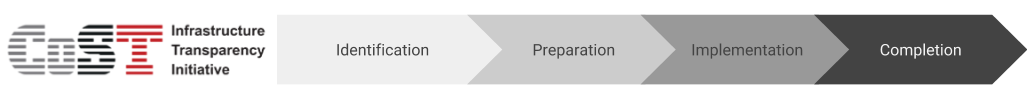
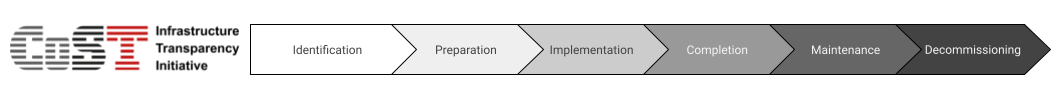
projectStatus.csv: Add maintenance and decommissioning stages

diff --git a/docs/projects/index.md b/docs/projects/index.md
@@ -31,14 +31,46 @@ The CoST IDS and OC4IDS cover project-level data and summary contracting process
 
 ### What is project-level data?
 
+% Image source: https://docs.google.com/drawings/d/1aV2iBjxeVFR8JRZRPY80mVS3C57uolk1sEDrn8vKuhA
 ![Project-level data covers a number of stages](../_static/images/diagram-project-phases.png)
 
 Project-level data relates to the project as a whole and covers the following stages:
 
-* **Identification** - the decision to develop a project within the budget and programme of a project owner.
-* **Preparation** - the feasibility study, environmental and social impact assessment, general scoping of the project, establishing the packaging and procurement strategy, preliminary statutory requirements on environmental and land impacts, and the resulting budget authorization.
-* **Implementation** - covers the procurement and implementation of the planning, design and works according to the procurement strategy.
-* **Completion** - covers the handover of the assets and close-out activities with details of the final scope, cost, and delivery time.
+**Identification**
+: 
+  ```{eval-rst}
+  .. code-description:: ../../build/current_lang/codelists/projectStatus.csv identification
+  ```
+
+**Preparation**
+: 
+  ```{eval-rst}
+  .. code-description:: ../../build/current_lang/codelists/projectStatus.csv preparation
+  ```
+
+**Implementation**
+: 
+  ```{eval-rst}
+  .. code-description:: ../../build/current_lang/codelists/projectStatus.csv implementation
+  ```
+
+**Completion**
+: 
+  ```{eval-rst}
+  .. code-description:: ../../build/current_lang/codelists/projectStatus.csv completion
+  ```
+
+**Maintenance**
+: 
+  ```{eval-rst}
+  .. code-description:: ../../build/current_lang/codelists/projectStatus.csv maintenance
+  ```
+
+**Decommissioning**
+: 
+  ```{eval-rst}
+  .. code-description:: ../../build/current_lang/codelists/projectStatus.csv decommissioning
+  ```
 
 ### What is summary contracting process data?
 
@@ -46,16 +78,20 @@ Project-level data relates to the project as a whole and covers the following st
 
 Summary contracting process data relates to the contracts used to deliver the project and covers the following stages:
 
-* **Procurement** - the procuring entity and process; contract type and status; number of bidders; cost estimate and contract price; suppliers; scope of work and start date and duration of the contract.
-* **Implementation** - variations to contract price, duration and scope, and reasons for these changes.
+**Procurement**
+: The procuring entity and process; contract type and status; number of bidders; cost estimate and contract price; suppliers; scope of work and start date and duration of the contract.
+
+**Implementation** 
+: Variations to contract price, duration and scope, and reasons for these changes.
 
 CoST recommends disclosing data on contracts for the design, construction and supervision of a project and any other significant contract outsourced by the procuring entity.
 
 ## How is OC4IDS structured?
 
+% Image source: https://docs.google.com/drawings/d/1VnV44NY_WR02jRouWaLYc0dVVZRojbkrUJyqlfrKUSQ
 ![OC4IDS is structured in three parts](../_static/images/diagram-toplevel-summary.png)
 
-The top-level of the OC4IDS data model is used for project-level data, covering the identification, preparation and completion stages of a project.
+The top-level of the OC4IDS data model is used for project-level data, covering the following stages: identification, preparation, implementation, completion, maintenance and decomissioning.
 
 Each project in OC4IDS can have many related contracting processes.
 
@@ -73,6 +109,7 @@ Where detailed contracting data is published using the [Open Contracting Data St
 
 OCDS is used to disclose detailed data on contracting processes for goods, works and services. It covers all stages of a contracting process: planning, initiation, award, contract and implementation.
 
+% Image source: https://docs.google.com/drawings/d/1Nx45CtOXMjv7yRWXoB7kXklZiP4VvZM7RecnQuR23lk
 ![Project-level data three stages](../_static/images/diagram-project-level-data-spec-update.png)
 
 OCDS data can be used to identify and monitor infrastructure projects. It can also be used to produce OC4IDS data. Converting OCDS data to OC4IDS data can reduce the amount of manual data entry necessary for infrastructure project monitoring.
@@ -89,6 +126,7 @@ Infrastructure projects can be procured in different ways, including through Pub
 
 Where data on PPP projects is published using OCDS for PPPs, the `contractingProcesses/releases` array in OC4IDS can be used to link to OCDS for PPPs releases.
 
+% Image source: https://docs.google.com/drawings/d/1g6jN2XIuECNxp_jdDa7-gbnZBe4oz1IpIbDEzDkue28
 ![What about PPPs](../_static/images/diagram-ppp.png)
 
 ## Why use OC4IDS?
